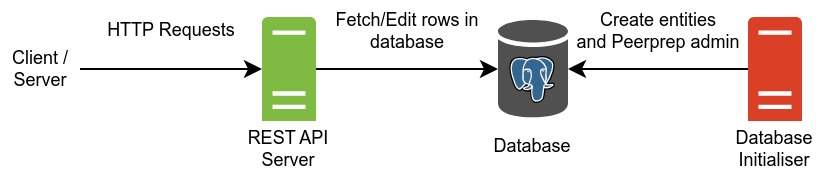
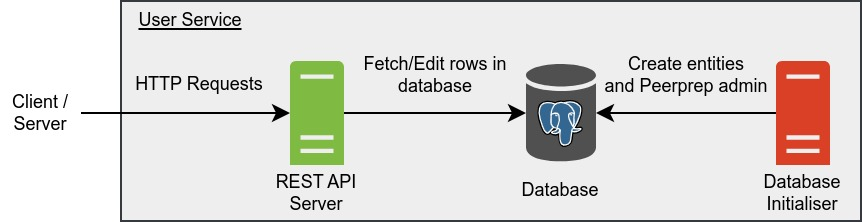
Update architecture diagram

Changed region(s): [[0.0, 0.0, 1.0, 1.0], [0.5909, 0.7584, 0.7153, 0.8989], [0.0, 0.2809, 0.0933, 0.3652]]

diff --git a/README.md b/README.md
@@ -42,16 +42,15 @@ Note: Start of arrow indicates request origin and end of arrow indicates request
 **REST API Server**
 
 - Handles REST API requests.
+- Exposed to client/servers outside the service.
 - Can be scaled horizontally.
 - Corresponds to the [API](#api) docker image.
 
 **Database Initialiser**
 
-- Initialises the database.
+- Creates entities in the database and creates the default Peerprep admin account.
 - Does nothing if the database already contains one or more entities it intends to create (behaviour can be changed via environment variables).
 - Shuts down once it is done initialising the database.
-- Creates entities in the database.
-- Creates the default Peerprep admin account.
 - Corresponds to the [Database Initialiser](#database-initialiser) docker image.
 
 **Database**
